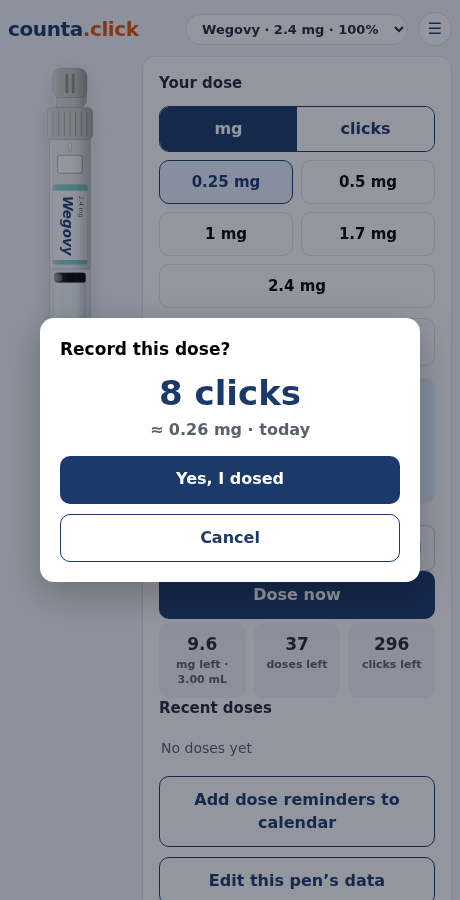
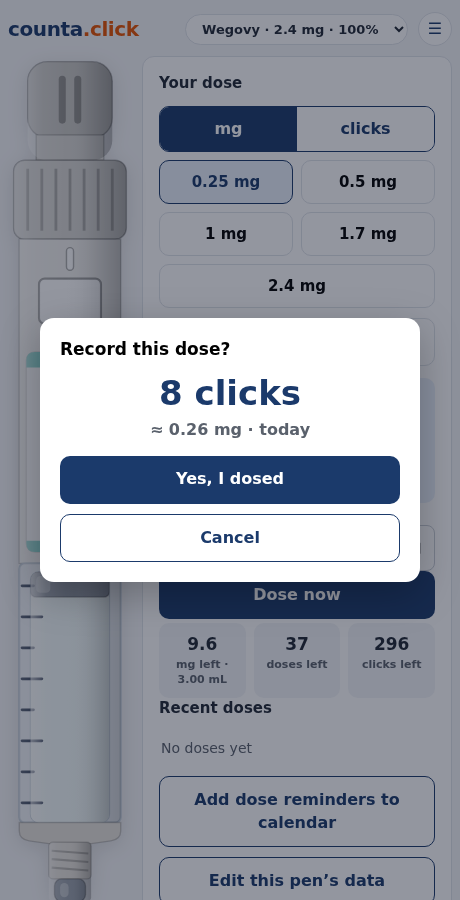
Fix the pen rendering black, and stop wasting two thirds of its canvas
Closes #17. Closes #20.

The pen was a black silhouette until a pen was saved, from two causes that
compounded. The strict CSP has no 'unsafe-inline' in style-src, which drops
inline `style` attributes — and that attribute was where the default theme
lived, so the custom properties were never set. The port from
assets/counta-pen.svg had also dropped every var() fallback, so an unset
property resolved to nothing and SVG fill fell back to its initial value,
black. With the fallbacks intact it would have degraded to a reasonable pen
and nobody would have filed a bug.

The theme now applies through CSSOM, which CSP doesn't police, and all fifteen
var() usages carry their fallback again. Adding 'unsafe-inline' would have
been the one-line fix and the wrong one: on an app where a single injected
script is total compromise, that trades a real boundary for a cosmetic
problem.

Separately, nothing repainted during setup, so a new account never themed the
preview and changing product on the edit screen left the old colours until
save. Setup now previews the selected product, including live updates while
typing a custom pen's name.

On sizing: the pen occupied 80 of 220 horizontal units, so 64% of the canvas
was empty margin, and since the graphic is sized by width the pen drew at
about a third of the space it was given. Widening the column earlier treated
the symptom. The viewBox is tightened to the content box and width
[…]

diff --git a/app/javascript/app.js b/app/javascript/app.js
@@ -233,6 +233,7 @@ function enterSetup(fromDose) {
   $("dose-card").hidden = true;
   $("cancel-setup").hidden = !fromDose;
   // Archive/trash live on the edit screen ("settings"), never on new-pen setup.
+  previewSetupPen();
   $("archive-pen-edit").hidden = !editingPen || !!editingPen.archivedAt;
   $("trash-pen-edit").hidden = !editingPen;
   buildSwitcher();
@@ -426,11 +427,34 @@ async function setArchived(flag) {
 
 /* ============ pen svg (ported; hooks per counta-pen.svg header) ============ */
 const svg = () => $("pen-svg");
+// Applies a product's colours to the graphic. Separate from paintPen because
+// setup needs to preview a product before any pen exists — and because the
+// default theme can no longer ride in an inline style attribute: the CSP has
+// no 'unsafe-inline', so those attributes are dropped and every var() fell
+// back to nothing, rendering the pen black (issue #17).
+function paintTheme(theme) {
+  if (!theme) return;
+  const s = svg();
+  for (const [ k, v ] of Object.entries(theme)) s.style.setProperty(k, v);
+}
+
+// Previews the product currently selected in the setup form.
+function previewSetupPen() {
+  const key = $("f-product").value;
+  const p = productByKey(key);
+  if (!p) return; // products not loaded yet
+  paintTheme(p.theme);
+  const s = svg();
+  s.querySelector("#product-name").textContent =
+    key === "custom" ? ($("f-name").value || t("pen.default_name")) : p.name;
+  s.querySelector("#product-strength").textContent = p.strength || "";
+}
+
 function paintPen() {
   const d = pen();
   if (!d) return;
   const s = svg();
-  for (const [ k, v ] of Object.entries(d.theme)) s.style.setProperty(k, v);
+  paintTheme(d.theme);
   const n = s.querySelector("#product-name");
   n.textContent = d.name || t("pen.default_name");
   n.removeAttribute("textLength");
@@ -781,7 +805,9 @@ function wire() {
   $("unarchive-pen").addEventListener("click", () => setArchived(false));
 
   // setup
-  $("f-product").addEventListener("change", e => fillSetupForm(e.target.value));
+  $("f-product").addEventListener("change", e => { fillSetupForm(e.target.value); previewSetupPen(); });
+  // Typing a custom pen's name should show up on the label as you go.
+  $("f-name").addEventListener("input", previewSetupPen);
   $("f-capacity").addEventListener("change", e => {
     const p = productByKey($("f-product").value);
     $("custom-cap-wrap").hidden = e.target.value !== "custom";

diff --git a/spec/system/pen_graphic_spec.rb b/spec/system/pen_graphic_spec.rb
@@ -1,0 +1,60 @@
+# Issue #17: the pen rendered as a black silhouette until a pen was saved.
+#
+# Two causes: the strict CSP blocks inline `style` attributes, which is where
+# the default theme lived, and the port from assets/counta-pen.svg had dropped
+# every var() fallback — so an unset custom property resolved to nothing and
+# SVG fill fell back to its initial value, black.
+require "rails_helper"
+
+RSpec.describe "Pen graphic", type: :system do
+  before do
+    load Rails.root.join("db/seeds.rb")
+    visit "/"
+    add_virtual_authenticator
+    sign_up_through_first_run
+  end
+
+  def fill_of(id)
+    page.evaluate_script("getComputedStyle(document.getElementById('#{id}')).fill")
+  end
+
+  it "is themed on a brand-new account, before any pen exists" do
+    expect(page).to have_css("#setup-card:not([hidden])")
+
+    # The assertion that would have caught this the day the CSP landed.
+    expect(fill_of("body-shell")).not_to eq("rgb(0, 0, 0)"),
+      "the pen is rendering unthemed — check the CSP isn't dropping an inline style"
+    expect(fill_of("label-bg")).not_to eq("rgb(0, 0, 0)")
+  end
+
+  it "restyles when a different product is chosen" do
+    select "Wegovy 2.4 mg (4 doses · 9.6 mg · 3 mL)", from: "f-product"
+    wegovy = fill_of("body-shell")
+
+    select "Fiasp 100 U/mL (3 mL · 300 U)", from: "f-product"
+    fiasp = fill_of("body-shell")
+
+    expect(fiasp).not_to eq(wegovy),
+      "changing product didn't restyle the pen — the preview isn't repainting"
+    expect(fiasp).not_to eq("rgb(0, 0, 0)")
+  end
+
+  it "keeps its theme after saving, and when editing an existing pen" do
+    select "Fiasp 100 U/mL (3 mL · 300 U)", from: "f-product"
+    saved_theme = fill_of("body-shell")
+    save_pen
+
+    expect(fill_of("body-shell")).to eq(saved_theme)
+
+    click_button "Edit this pen’s data"
+    expect(fill_of("body-shell")).to eq(saved_theme),
+      "editing lost the pen's colours"
+  end
+
+  it "degrades to a sensible pen rather than black if a variable goes unset" do
+    # The var() fallbacks are the second half of the fix: without them any
+    # future path that fails to set a property paints the pen black again.
+    page.execute_script("document.getElementById('pen-svg').style.cssText = ''")
+    expect(fill_of("body-shell")).not_to eq("rgb(0, 0, 0)")
+  end
+end
